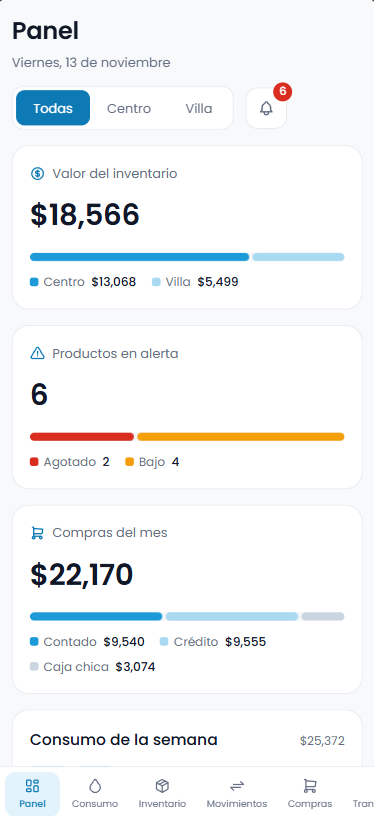
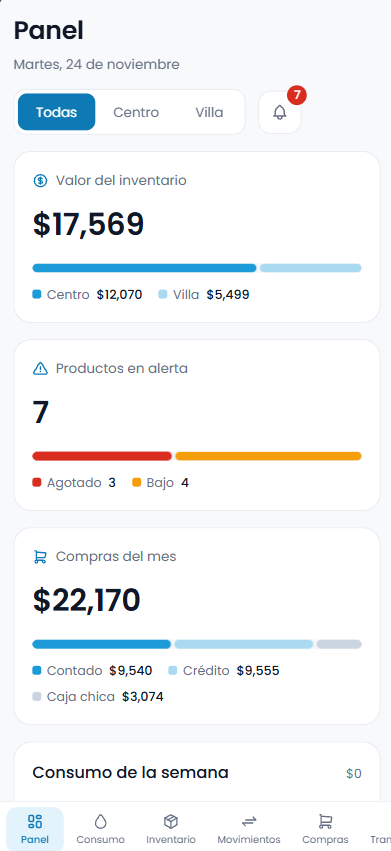
README: capturas en celular de Panel y Consumo

diff --git a/README.md b/README.md
@@ -48,9 +48,15 @@ Una herramienta que responde **qué hay, dónde está y cuánto se gasta**, con 
 
 ![Inventario](docs/capturas/inventario.png)
 
-| Transferencias | Panel en celular |
+**Transferencias**
+
+![Transferencias](docs/capturas/transferencias.png)
+
+**En celular**
+
+| Panel | Consumo |
 |---|---|
-| ![Transferencias](docs/capturas/transferencias.png) | <img src="docs/capturas/panel-celular.png" width="300" alt="Panel en celular"> |
+| <img src="docs/capturas/panel-celular.png" width="300" alt="Panel en celular"> | <img src="docs/capturas/consumo-celular.png" width="300" alt="Consumo en celular"> |
 
 <details>
 <summary>Ver más pantallas</summary>
